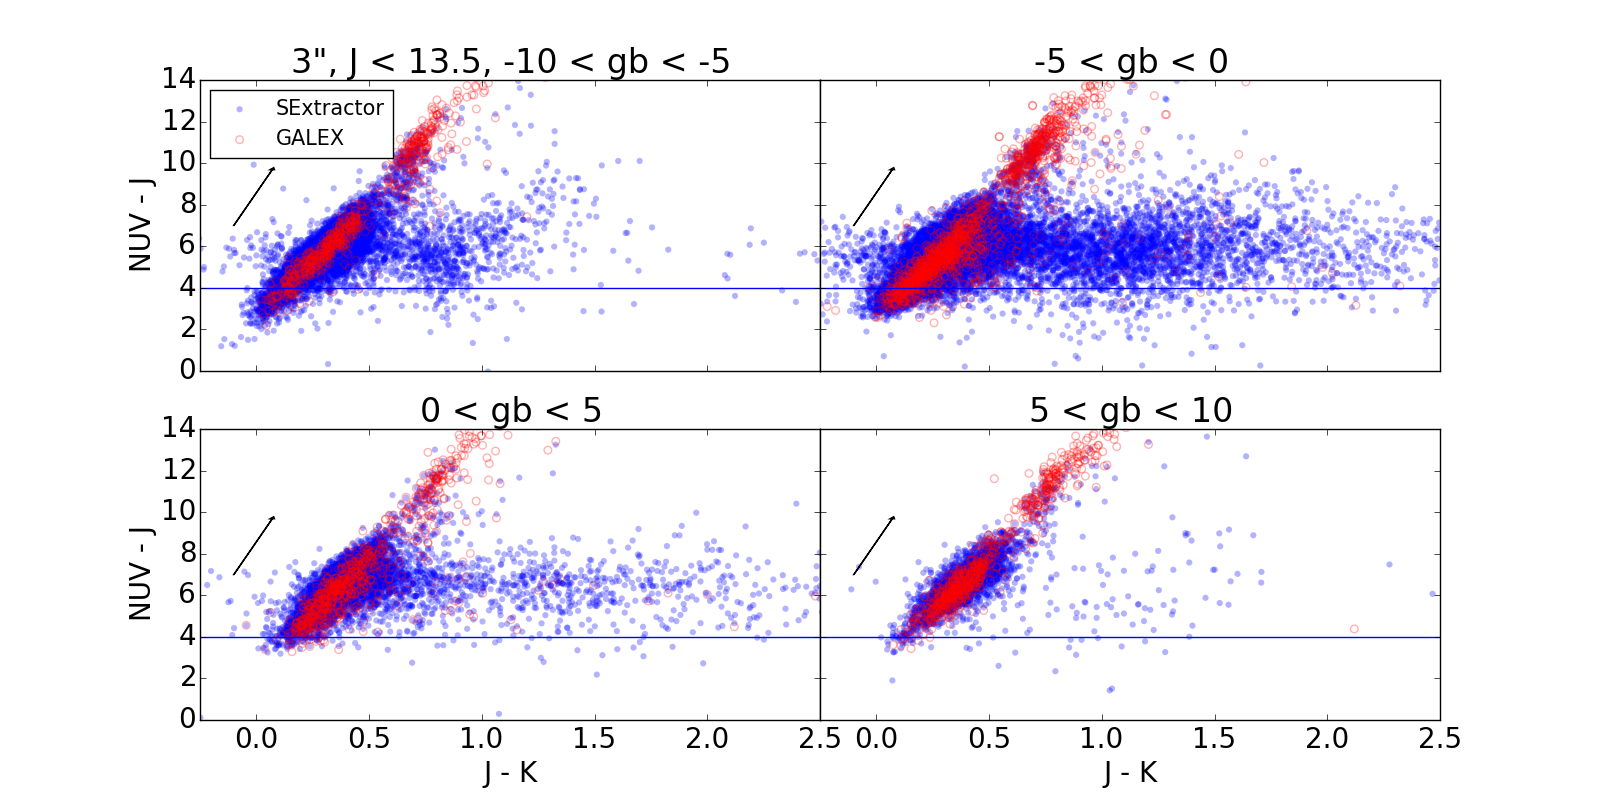
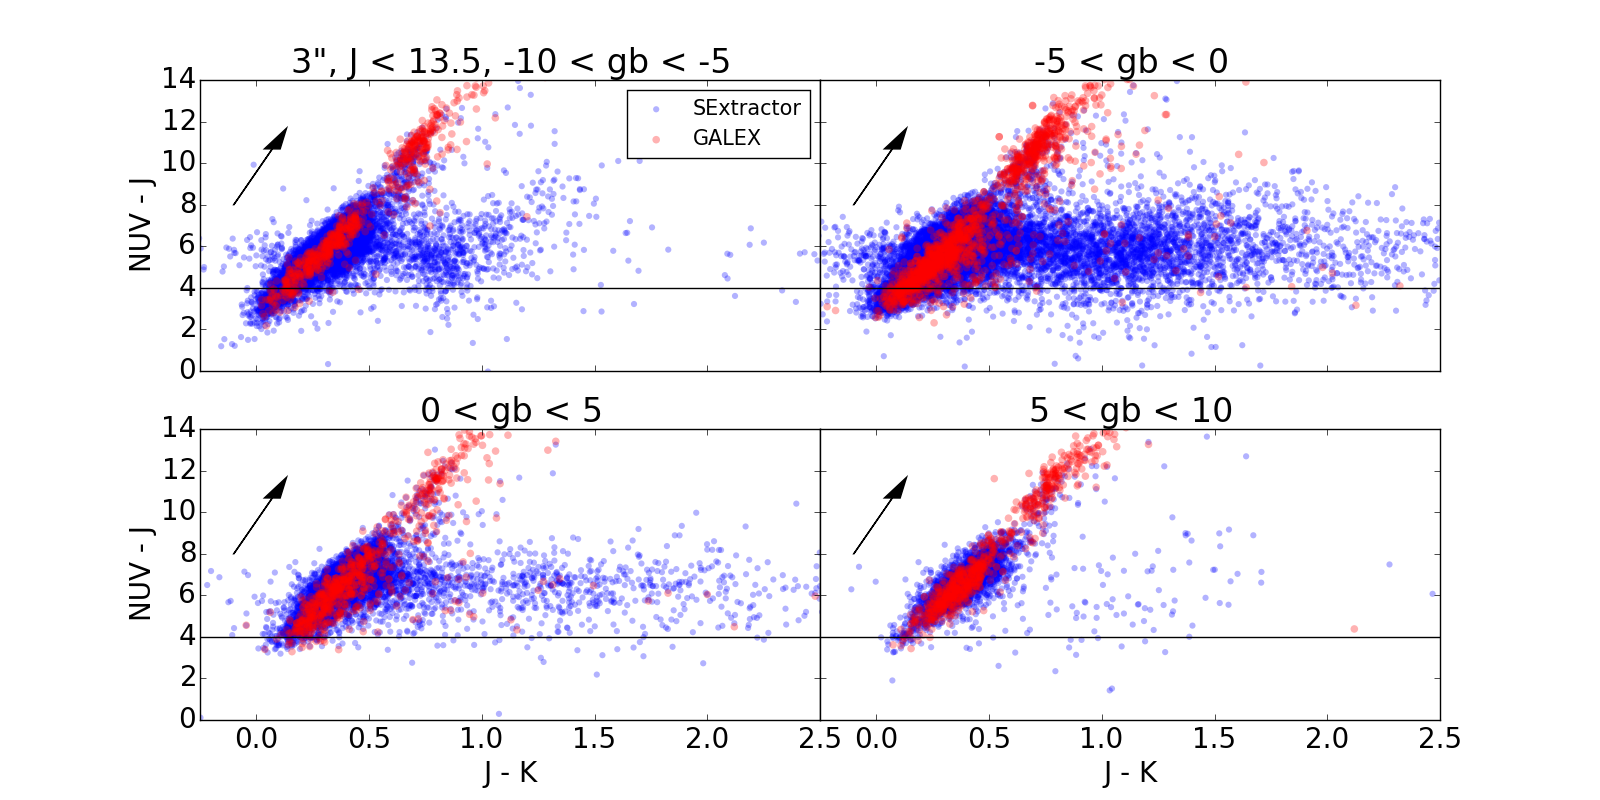
Paper edits

diff --git a/pipeline/ccplot.py b/pipeline/ccplot.py
@@ -5,14 +5,16 @@ import matplotlib
 matplotlib.rcParams['figure.figsize'] = 16, 8
 matplotlib.rcParams['font.size'] = 20
 
-nuvjvsjk = 1
-nuvbvsbv = 0
+nuvjvsjk = 0
+nuvbvsbv = 1
 jhvshk = 0
+grvsnuvg = 0
 
-#starg = Table.read('newfield_gal_2mass_t2_jlim_13.5_3arcsec.txt', format='ascii')
+
+#star = Table.read('newfield_gal_2mass_t2_jlim_13.5_3arcsec.txt', format='ascii')
 #star = Table.read('newfield_2mass_t2_jlim_13.5_3arcsec.txt', format='ascii')
 
-newt = Table.read('galex0data_2mass.txt', format='ascii')
+newt = Table.read('galex0data_2mass_t2.txt', format='ascii')
 pickles = Table.read('picklemags_laphare.txt', format='ascii')
 
 #star['nuv'] = star['nuv'] - 0.5
@@ -35,6 +37,10 @@ v = ['VJmag', 'v', 'VJmag', 1.0]
 j = ['j', 'j', 'j', 0.2876]
 h = ['h', 'h', 'h', 0.1783]
 k = ['k', 'k', 'k', 0.1170]
+u = ['u','u_AB','u_AB',1.5916]
+g = ['g','g_AB','g_AB',1.1838]
+r = ['r','r_AB','r_AB',0.8664]
+ib  = ['i','i_AB','i_AB',0.6418]
 
 if nuvjvsjk == 1:
     x1 = j
@@ -42,7 +48,7 @@ if nuvjvsjk == 1:
     y1 = nuv
     y2 = j
     extx = -0.1
-    exty = 7
+    exty = 8
     #extx = 0.08
     #exty = 3.5
     extdx = x1[3] - x2[3]
@@ -52,7 +58,7 @@ if nuvbvsbv == 1:
     x2 = v
     y1 = nuv
     y2 = b
-    extx = 1.6
+    extx = 1.4
     exty = 3
     #extx = 0.2
     #exty = 3.4
@@ -68,16 +74,27 @@ if jhvshk == 1:
     extdx = x1[3] - x2[3]
     extdy = y1[3] - y2[3]
 
+if grvsnuvg == 1:
+    x1 = g
+    x2 = r
+    y1 = nuv
+    y2 = g
+    extx = 4
+    exty = -0.175
+    extdx = x1[3] - x2[3]
+    extdy = y1[3] - y2[3]
+
+
 # Open Figure
 f, ((ax1, ax2), (ax3, ax4)) = plt.subplots(2, 2, sharex='col', sharey='row')
 plt.rc('legend', **{'fontsize': 15})
 
 
 # GALEX data
-a2 = ax1.scatter(newt[x1[0]][ncut]-newt[x2[0]][ncut], newt[y1[0]][ncut]-newt[y2[0]][ncut], facecolor='none', edgecolor='red', s=30, alpha=0.3)
-b2 = ax2.scatter(newt[x1[0]][ncut2]-newt[x2[0]][ncut2], newt[y1[0]][ncut2]-newt[y2[0]][ncut2], facecolor='none', edgecolor='red', s=30, alpha=0.3)
-c2 = ax3.scatter(newt[x1[0]][ncut3]-newt[x2[0]][ncut3], newt[y1[0]][ncut3]-newt[y2[0]][ncut3], facecolor='none', edgecolor='red', s=30, alpha=0.3)
-d2 = ax4.scatter(newt[x1[0]][ncut4]-newt[x2[0]][ncut4], newt[y1[0]][ncut4]-newt[y2[0]][ncut4], facecolor='none', edgecolor='red', s=30, alpha=0.3)
+a2 = ax1.scatter(newt[x1[0]][ncut]-newt[x2[0]][ncut], newt[y1[0]][ncut]-newt[y2[0]][ncut], facecolor='red', edgecolor='none', s=30, alpha=0.3)
+b2 = ax2.scatter(newt[x1[0]][ncut2]-newt[x2[0]][ncut2], newt[y1[0]][ncut2]-newt[y2[0]][ncut2], facecolor='red', edgecolor='none', s=30, alpha=0.3)
+c2 = ax3.scatter(newt[x1[0]][ncut3]-newt[x2[0]][ncut3], newt[y1[0]][ncut3]-newt[y2[0]][ncut3], facecolor='red', edgecolor='none', s=30, alpha=0.3)
+d2 = ax4.scatter(newt[x1[0]][ncut4]-newt[x2[0]][ncut4], newt[y1[0]][ncut4]-newt[y2[0]][ncut4], facecolor='red', edgecolor='none', s=30, alpha=0.3)
 
 
 # SExtractor
@@ -86,30 +103,30 @@ b1 = ax2.scatter(star[x1[2]][scut2]-star[x2[2]][scut2], star[y1[2]][scut2]-star[
 c1 = ax3.scatter(star[x1[2]][scut3]-star[x2[2]][scut3], star[y1[2]][scut3]-star[y2[2]][scut3], edgecolor='none', alpha=0.3)
 d1 = ax4.scatter(star[x1[2]][scut4]-star[x2[2]][scut4], star[y1[2]][scut4]-star[y2[2]][scut4], edgecolor='none', alpha=0.3)
 
+#Pickles
 
-'''#Pickles
-a3 = ax1.scatter(pickles[x1[1]]-pickles[x2[1]], pickles[y1[1]]-pickles[y2[1]], c='black', s=5)
-b3 = ax2.scatter(pickles[x1[1]]-pickles[x2[1]], pickles[y1[1]]-pickles[y2[1]], c='black', s=5)
-c3 = ax3.scatter(pickles[x1[1]]-pickles[x2[1]], pickles[y1[1]]-pickles[y2[1]], c='black', s=5)
-d3 = ax4.scatter(pickles[x1[1]]-pickles[x2[1]], pickles[y1[1]]-pickles[y2[1]], c='black', s=5)
+a3 = ax1.scatter(pickles[x1[1]]-pickles[x2[1]], pickles[y1[1]]-pickles[y2[1]], c='black', s=10)
+b3 = ax2.scatter(pickles[x1[1]]-pickles[x2[1]], pickles[y1[1]]-pickles[y2[1]], c='black', s=10)
+c3 = ax3.scatter(pickles[x1[1]]-pickles[x2[1]], pickles[y1[1]]-pickles[y2[1]], c='black', s=10)
+d3 = ax4.scatter(pickles[x1[1]]-pickles[x2[1]], pickles[y1[1]]-pickles[y2[1]], c='black', s=10)
+
 
 for j in range(len(pickles)):
     ax1.annotate(pickles['name'][j], xy=(pickles[x1[1]][j]-pickles[x2[1]][j], pickles[y1[1]][j]-pickles[y2[1]][j]), size=12)
     ax2.annotate(pickles['name'][j], xy=(pickles[x1[1]][j]-pickles[x2[1]][j], pickles[y1[1]][j]-pickles[y2[1]][j]), size=12)
     ax3.annotate(pickles['name'][j], xy=(pickles[x1[1]][j]-pickles[x2[1]][j], pickles[y1[1]][j]-pickles[y2[1]][j]), size=12)
-'''
-
+    ax4.annotate(pickles['name'][j], xy=(pickles[x1[1]][j]-pickles[x2[1]][j], pickles[y1[1]][j]-pickles[y2[1]][j]), size=12)
 
 
 # Add Extinction vector
-ax1.arrow(extx, exty, extdx, extdy, head_length=0.1,color='black')
-ax2.arrow(extx, exty, extdx, extdy, head_length=0.1,color='black')
-ax3.arrow(extx, exty, extdx, extdy, head_length=0.1,color='black')
-ax4.arrow(extx, exty, extdx, extdy, head_length=0.1,color='black')
+ax1.arrow(extx, exty, extdx, extdy, head_length=1.,head_width=0.07,color='black')
+ax2.arrow(extx, exty, extdx, extdy, head_length=1.,head_width=0.07,color='black')
+ax3.arrow(extx, exty, extdx, extdy, head_length=1.,head_width=0.07,color='black')
+ax4.arrow(extx, exty, extdx, extdy, head_length=1.,head_width=0.07,color='black')
 
 # Set all labels
-#ax1.set_title('3", -10 > gb > -5')
-ax1.set_title('3", -10 < gb < -5')
+ax1.set_title('3", J < 13.5, -10 < gb < -5')
+#ax1.set_title('6", -10 < gb < -5')
 ax2.set_title('-5 < gb < 0')
 ax3.set_title('0 < gb < 5')
 ax4.set_title('5 < gb < 10')
@@ -156,23 +173,41 @@ if jhvshk == 1:
     ax3.set_ylabel('J - H')
     ax4.set_xlabel('H - K')
 
+if grvsnuvg == 1:
+    ax1.set_xlim((-3,8))
+    ax1.set_ylim((-1.,2.0))
+    ax2.set_xlim((-3,8))
+    ax2.set_ylim((-1.,2.0))
+    ax3.set_xlim((-3,8))
+    ax3.set_ylim((-1.,2.0))
+    ax4.set_xlim((-3,8))
+    ax4.set_ylim((-1.,2.0))
+    ax1.set_ylabel('NUV - g (AB mag)')
+    ax3.set_xlabel('g - r (AB mag)')
+    ax3.set_ylabel('NUV - g (AB mag)')
+    ax4.set_xlabel('g - r (AB mag)')
+
 if nuvjvsjk == 1:
-    #ax1.legend([a1, a2, a3], ['SExtractor', 'GALEX', 'Pickles'], scatterpoints=1, loc=4)
-    ax1.legend([a1, a2], ['SExtractor','GALEX'], scatterpoints=1, loc=2)
+    ax1.legend([a1, a2, a3], ['SExtractor', 'GALEX', 'Pickles'], scatterpoints=1, loc=4)
+    #ax1.legend([a1, a2], ['SExtractor','GALEX'], scatterpoints=1, loc=1)
 
 if nuvbvsbv == 1:
-    #ax1.legend([a1, a2, a3], ['SExtractor', 'GALEX', 'Pickles'], scatterpoints=1, loc=2)  
-    ax1.legend([a1, a2], ['SExtractor','GALEX'], scatterpoints=1, loc=2)
+    ax1.legend([a1, a2, a3], ['SExtractor', 'GALEX', 'Pickles'], scatterpoints=1, loc=2)  
+    #ax1.legend([a1, a2], ['SExtractor','GALEX'], scatterpoints=1, loc=2)
 
 if jhvshk == 1:
     ax1.legend([a1, a2, a3], ['SExtractor', 'GALEX', 'Pickles'], scatterpoints=1, loc=2)
 
+if grvsnuvg == 1:
+    ax1.legend([a1, a2, a3], ['SExtractor', 'GALEX', 'Pickles'], scatterpoints=1, loc=4)
+
+
 # Reference line
 if nuvjvsjk == 1:
-    ax1.axhline(y=4)
-    ax2.axhline(y=4)
-    ax3.axhline(y=4)
-    ax4.axhline(y=4)
+    ax1.axhline(y=4,color='black')
+    ax2.axhline(y=4,color='black')
+    ax3.axhline(y=4,color='black')
+    ax4.axhline(y=4,color='black')
 
 f.subplots_adjust(wspace=0)
 plt.show()

diff --git a/pipeline/misc.py b/pipeline/misc.py
@@ -583,18 +583,97 @@ plt.legend(loc=3,scatterpoints=1)
 plt.show()
 
 
+# GALEX, Pickles, SExtractor order
+nuv = ['nuv_mag', 'nuv', 'nuv', 2.9720]
+b = ['BJmag', 'b', 'BJmag', 1.3429]
+v = ['VJmag', 'v', 'VJmag', 1.0]
+j = ['j', 'j', 'j', 0.2876]
+h = ['h', 'h', 'h', 0.1783]
+k = ['k', 'k', 'k', 0.1170]
+u = ['u','u','u',1.5916]
+g = ['g','g','g',1.1838]
+r = ['r','r','r',0.8664]
+ib  = ['i','i','i',0.6418]
 
-ccut = np.where(c['g_AB']-c['i_AB'] < 0)
 
-plt.scatter(c['g_AB']-c['i_AB'],c['nuv']-c['g_AB'],edgecolor='none',facecolor='blue',alpha=0.3,label='All VPHAS')
-plt.scatter(c['g_AB'][ccut]-c['i_AB'][ccut],c['nuv'][ccut]-c['g_AB'][ccut],edgecolor='none',facecolor='red',label='NUV < 16')
-plt.xlim((-0.5,2.5))
-plt.ylim((-3,6.5))
+
+plt.scatter(sexv['g_AB']-sexv['i_AB'],sexv['nuv']-sexv['g_AB'],edgecolor='none',facecolor='blue',alpha=0.3,label='VPHAS')
+plt.scatter(starv[cut]['g_AB']-starv[cut]['i_AB'],starv[cut]['nuv']-starv[cut]['g_AB'],edgecolor='none',facecolor='red',label='VPHAS + 2MASS')
+plt.xlim((-2,3))
+plt.ylim((-2,8))
 plt.ylabel('NUV - g (ABmag)')
 plt.xlabel('g - i (ABmag)')
-plt.legend(loc=2,scatterpoints=1)
+plt.legend(loc=3,scatterpoints=1)
 plt.gca().invert_yaxis()
+plt.scatter(pickles['g']-pickles['i'], pickles['nuv']-pickles['g'], c='black', s=10)
+
+plt.arrow(-1.5, 4,g[3]-ib[3], nuv[3]-g[3], head_length=1.,head_width=0.07,color='black')
+
+for j in range(len(pickles)):
+        plt.annotate(pickles['name'][j], xy=(pickles['g'][j]-pickles['i'][j], pickles['nuv'][j]-pickles['g'][j]), size=12)
 
 plt.show()
 
 
+
+cut = np.where(starv['j']-starv['k'] > 0.6)
+plt.scatter(sexv['nuv']-sexv['g_AB'],sexv['g_AB']-sexv['r_AB'],edgecolor='none',alpha=0.3,label='VPHAS')
+plt.scatter(starv['nuv']-starv['g_AB'],starv['g_AB']-starv['r_AB'],edgecolor='none',facecolor='red',alpha=0.3,label='VPHAS+2MASS')
+plt.xlabel('NUV - g (ABmag)')
+plt.ylabel('g - r (ABmag)')
+plt.xlim((-3,9))
+plt.ylim((-1,2))
+plt.scatter(pickles['nuv']-pickles['g'], pickles['g']-pickles['r'], c='black', s=10)
+
+plt.arrow(4, -0.75,nuv[3]-g[3], g[3]-r[3], head_length=1.,head_width=0.07,color='black')
+
+plt.legend(scatterpoints=1,loc=4)
+
+
+for j in range(len(pickles)):
+        plt.annotate(pickles['name'][j], xy=(pickles['nuv'][j]-pickles['g'][j], pickles['g'][j]-pickles['r'][j]), size=12)
+
+plt.show()
+
+
+
+plt.scatter(starv['j']-starv['k'],starv['nuv']-starv['j'],edgecolor='none',alpha=0.3,label='2MASS+VPHAS')
+plt.scatter(starv['j'][a]-starv['k'][a],starv['nuv'][a]-starv['j'][a],edgecolor='none',facecolor='red',label='NUV - g < 3')
+
+
+plt.xlim((-0.25, 2.5))
+plt.ylim((0, 14))
+plt.ylabel('NUV - J')
+plt.xlabel('J - K')
+plt.legend(scatterpoints=1)
+plt.scatter(pickles['j']-pickles['k'], pickles['nuv']-pickles['j'], c='black', s=10)
+plt.axhline(y=4,color='black')
+
+plt.arrow(-0.1, 8, 0.2876-0.1170, 2.9720-0.2876, head_length=1.,head_width=0.07,color='black')
+
+
+plt.show()
+
+# GALEX, Pickles, SExtractor order
+nuv = ['nuv_mag', 'nuv', 'nuv', 2.9720]
+b = ['BJmag', 'b', 'BJmag', 1.3429]
+v = ['VJmag', 'v', 'VJmag', 1.0]
+j = ['j', 'j', 'j', 0.2876]
+h = ['h', 'h', 'h', 0.1783]
+k = ['k', 'k', 'k', 0.1170]
+u = ['u','u_AB','u_AB',1.5916]
+g = ['g','g_AB','g_AB',1.1838]
+r = ['r','r_AB','r_AB',0.8664]
+ib  = ['i','i_AB','i_AB',0.6418]
+
+if nuvjvsjk == 1:
+    x1 = j
+    x2 = k
+    y1 = nuv
+    y2 = j
+    extx = -0.1
+    exty = 8
+    #extx = 0.08
+    #exty = 3.5
+    extdx = x1[3] - x2[3]
+    extdy = y1[3] - y2[3]

diff --git a/pipeline/pickleconv.py b/pipeline/pickleconv.py
@@ -147,21 +147,6 @@ g = [x/gfiltsum for x in g]
 r = [x/rfiltsum for x in r]
 ib = [x/ifiltsum for x in ib]
 
-# Old way
-'''
-name,nuv,b,v,j,h,k = [],[],[],[],[],[],[]
-picklefiles = np.loadtxt('PICKLES/pickles.txt', dtype='string')
-for i in picklefiles:
-    a = Table.read('PICKLES/'+i,format='ascii')
-    name.append(i)
-    nuv.append(a['col2'][224])
-    b.append(a['col2'][641])
-    v.append(a['col2'][781])
-    j.append(a['col2'][2241])
-    h.append(a['col2'][3095])
-    k.append(a['col2'][4089])
-'''
-
 pbands = Table([nuv, b, v, j, h, k, u, g, r, ib], names=('nuv', 'b', 'v', 'j', 'h', 'k', 'u', 'g', 'r', 'i'))
 
 nuvfilt['col2'] = nuvfilt['col2']+0.00001
@@ -190,16 +175,6 @@ ilamb = np.sqrt(np.sum(ifilt['col2'])/(np.sum(ifilt['col2']*(ifilt['col1']+0.0)*
 ##########################################################################
 # convert f_lambda to f_v, divide by 0 point, then conv to Jy. 1 Jy = 10^-23 erg/s/Hz/cm^2
 ##########################################################################
-
-#nuv = -2.5*np.log10((((pbands['nuv']-(2.22*10**-8))*3.34*10**4*(2300)**2))*10**-23)-48.6
-
-# Wavelengths in A
-#nuv = -2.5*np.log10(((pbands['nuv'] * 3.34*10**4 * (2300)**2)) * 10**-23) - 48.6
-#b = -2.5*np.log10(pbands['b'] * 3.34*10**4 * (4350)**2 * 10**-23) - 48.6
-#v = -2.5*np.log10(pbands['v'] * 3.34*10**4 * (5050)**2 * 10**-23) - 48.6
-#j = -2.5*np.log10(((pbands['j']*3.34*10**4 * (12350)**2) / 1594) * 10**-23) - 48.6
-#h = -2.5*np.log10(((pbands['h']*3.34*10**4 * (16620)**2) / 1024) * 10**-23) - 48.6
-#k = -2.5*np.log10(((pbands['k']*3.34*10**4 * (21590)**2) / 666.7) * 10**-23) - 48.6
 '''
 nuv = -2.5*np.log10(pbands['nuv'] * 3.34*10**4 * (2300)**2) + 8.9
 b = -2.5*np.log10(pbands['b'] * 3.34*10**4 * (4350)**2) + 8.9
